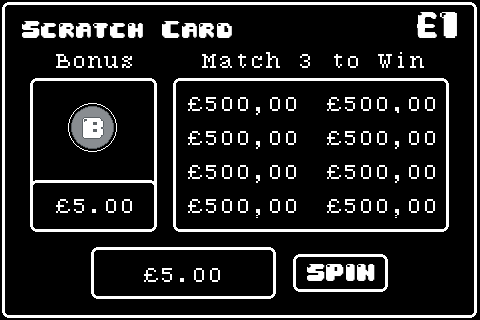
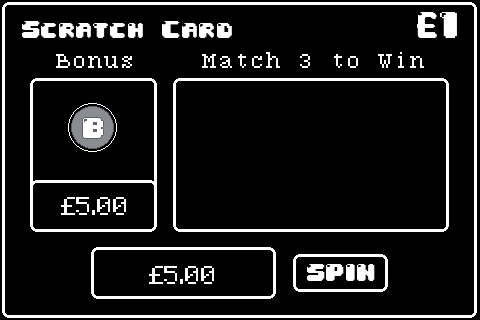
Added a SymbolManager and Symbol to position on screen elements

diff --git a/src/Game.ts b/src/Game.ts
@@ -1,15 +1,20 @@
 import * as PIXI from 'pixi.js'
-import Background from "./Components/Background";
+import Background from "./Components/Background/Background";
+import SymbolManager from "./Components/SymbolManager/SymbolManager";
+import settings from "./settings.json";
 
 export class Game {
     private m_app: PIXI.Application;
+    private m_curreny = settings.startingCurrency;
 
     constructor(app: PIXI.Application) {
         this.m_app = app;
 
         const background = new Background();
-
         this.m_app.stage.addChild(background);
+
+        const symbolManager = new SymbolManager();
+        this.m_app.stage.addChild(symbolManager);
     }
 }
 

diff --git a/src/Components/Symbol/Symbol.ts b/src/Components/Symbol/Symbol.ts
@@ -1,0 +1,23 @@
+import { Container, Text } from 'pixi.js';
+
+class Symbol extends Container {
+    private text: Text;
+
+    constructor( x: number, y: number ) {
+        super();
+        this.x = x;
+        this.y = y;
+
+        this.text = new Text('£500.00', {
+            fontFamily: 'minecraftia',
+            fontSize: 21,
+            fill: "white",
+            align: 'center',
+            padding: 15
+        });
+
+        this.addChild(this.text)
+    }
+}
+
+export default Symbol;

diff --git a/src/Components/SymbolManager/SymbolManager.ts b/src/Components/SymbolManager/SymbolManager.ts
@@ -1,0 +1,19 @@
+import { Container } from 'pixi.js';
+import Symbol from '../Symbol/Symbol';
+import settings from './SymbolManagerSettings.json';
+
+class SymbolManager extends Container {
+    private symbols: Symbol[];
+
+    constructor() {
+        super();
+
+        this.symbols = settings.symbolPositions.map(({x, y}) => {
+            const symbol = new Symbol(x, y)
+            this.addChild(symbol);
+            return symbol;
+        })
+    }
+}
+
+export default SymbolManager;
